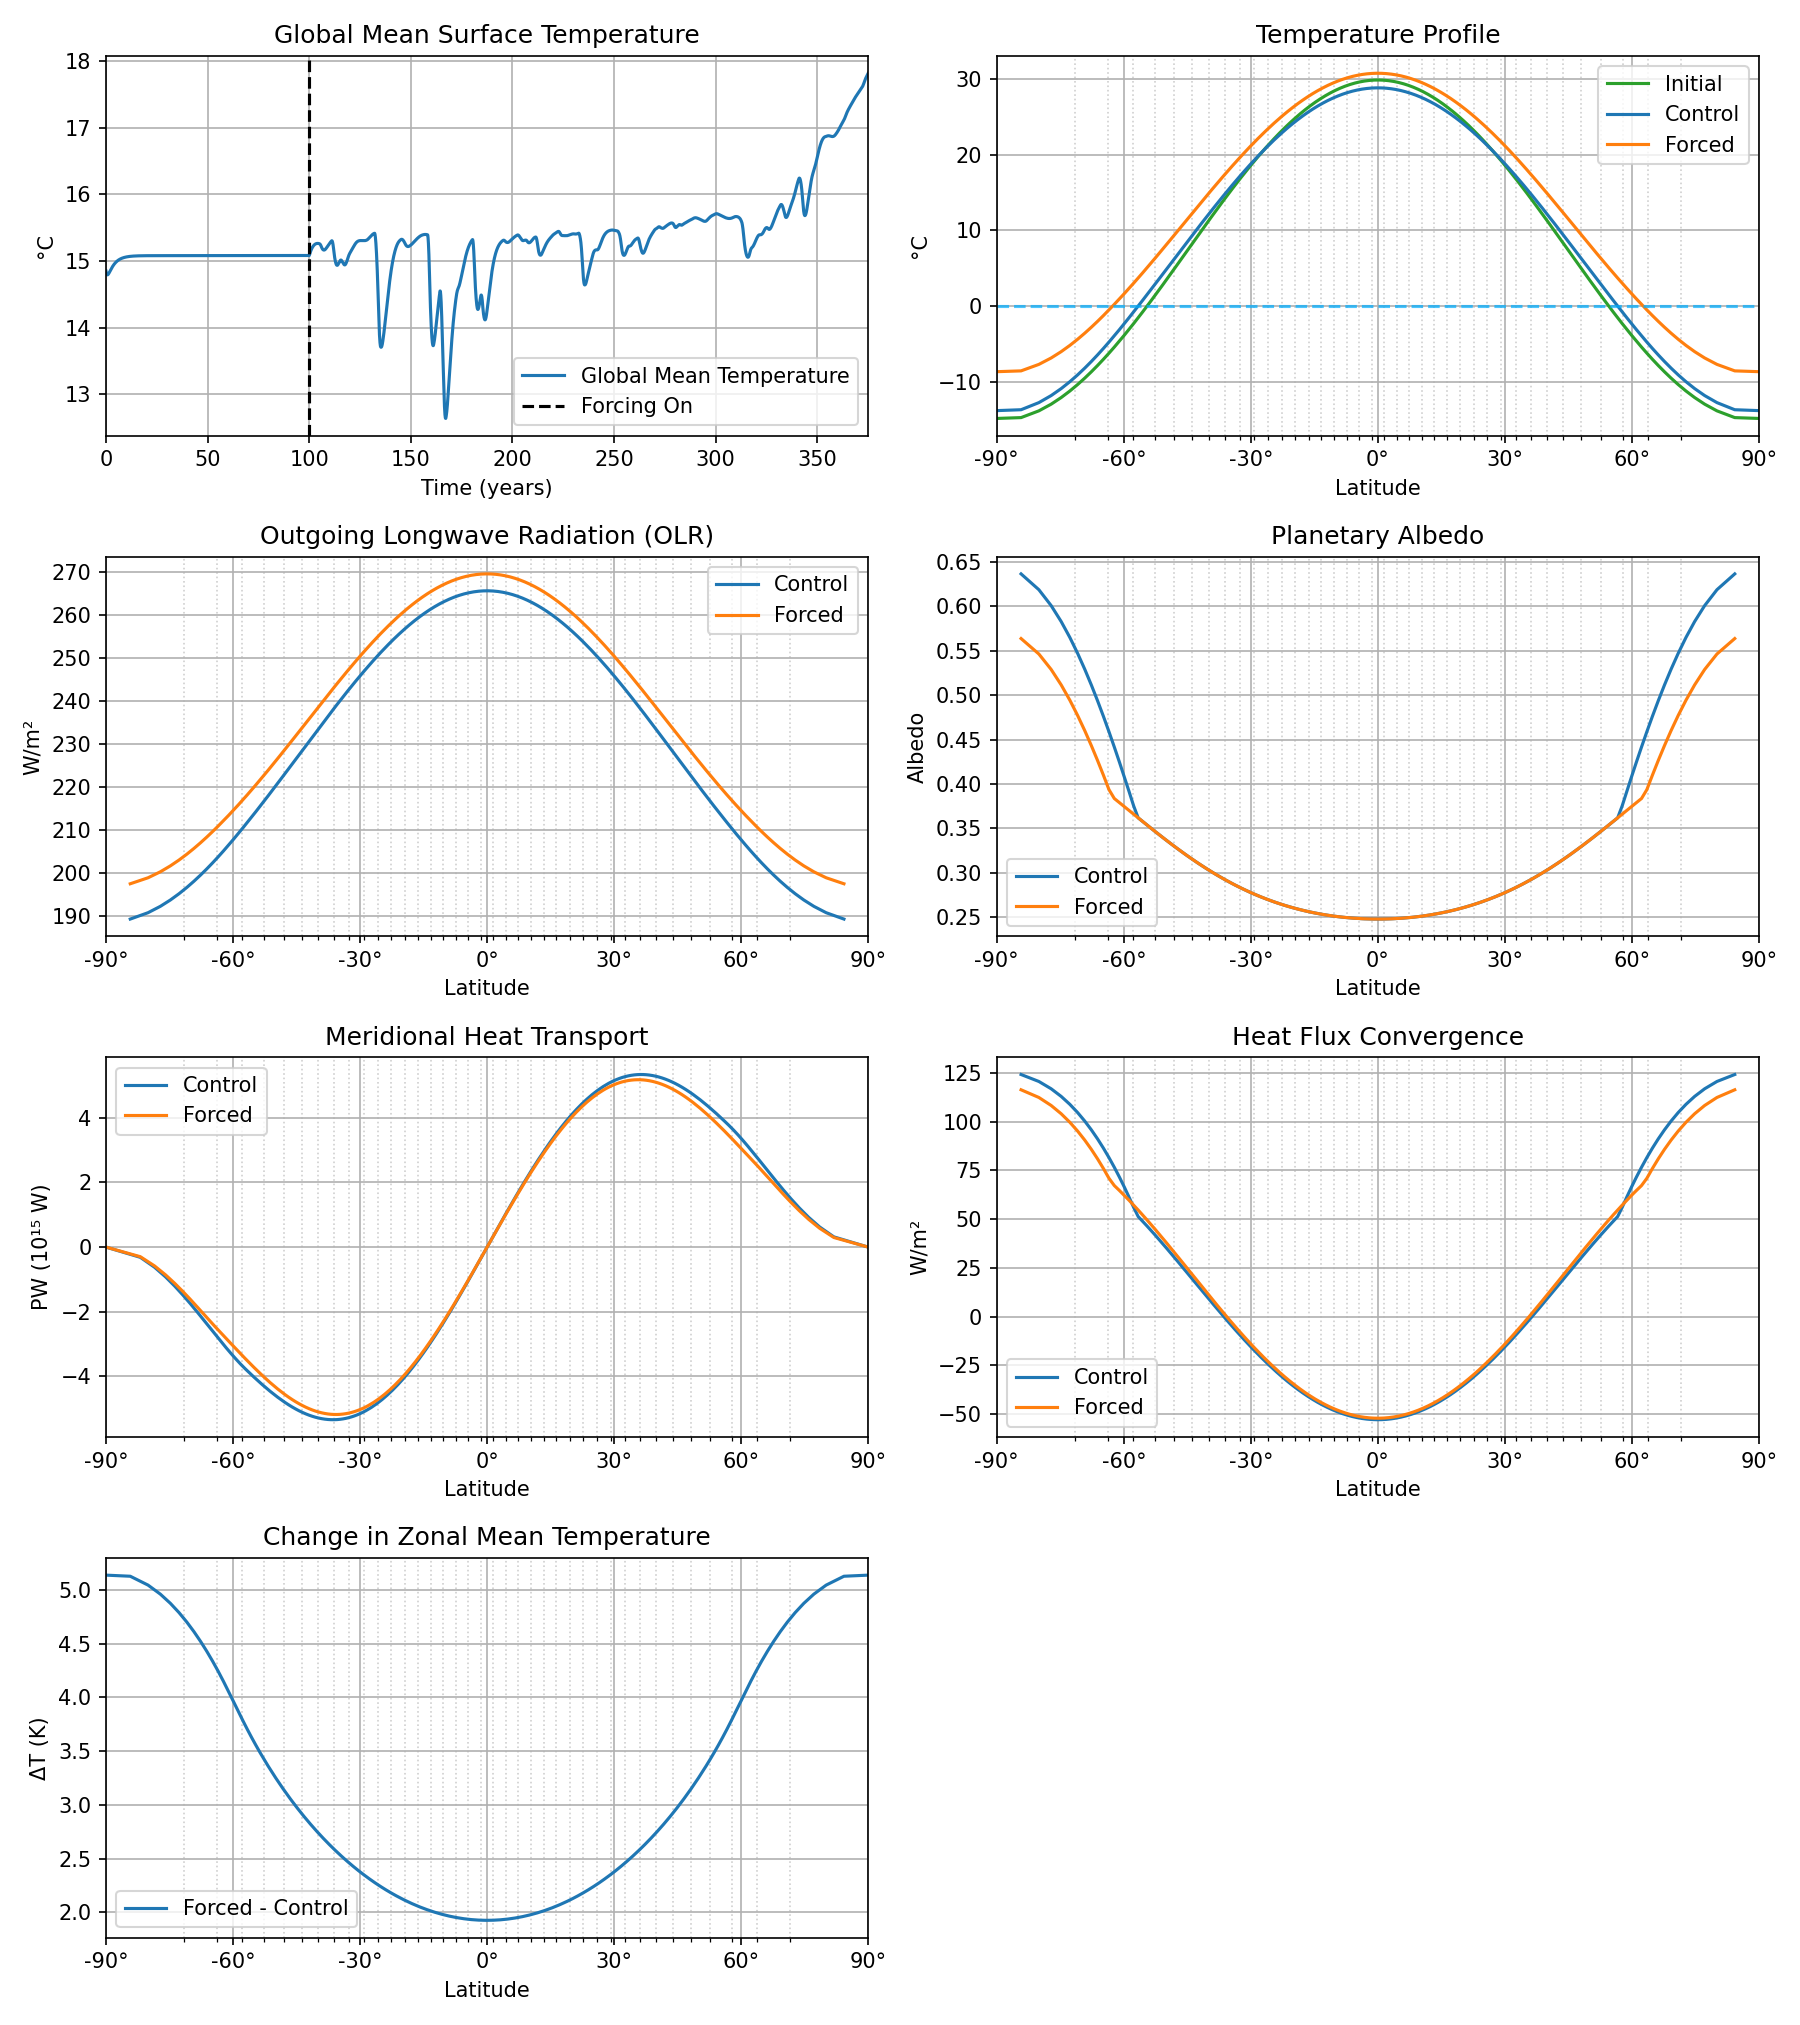
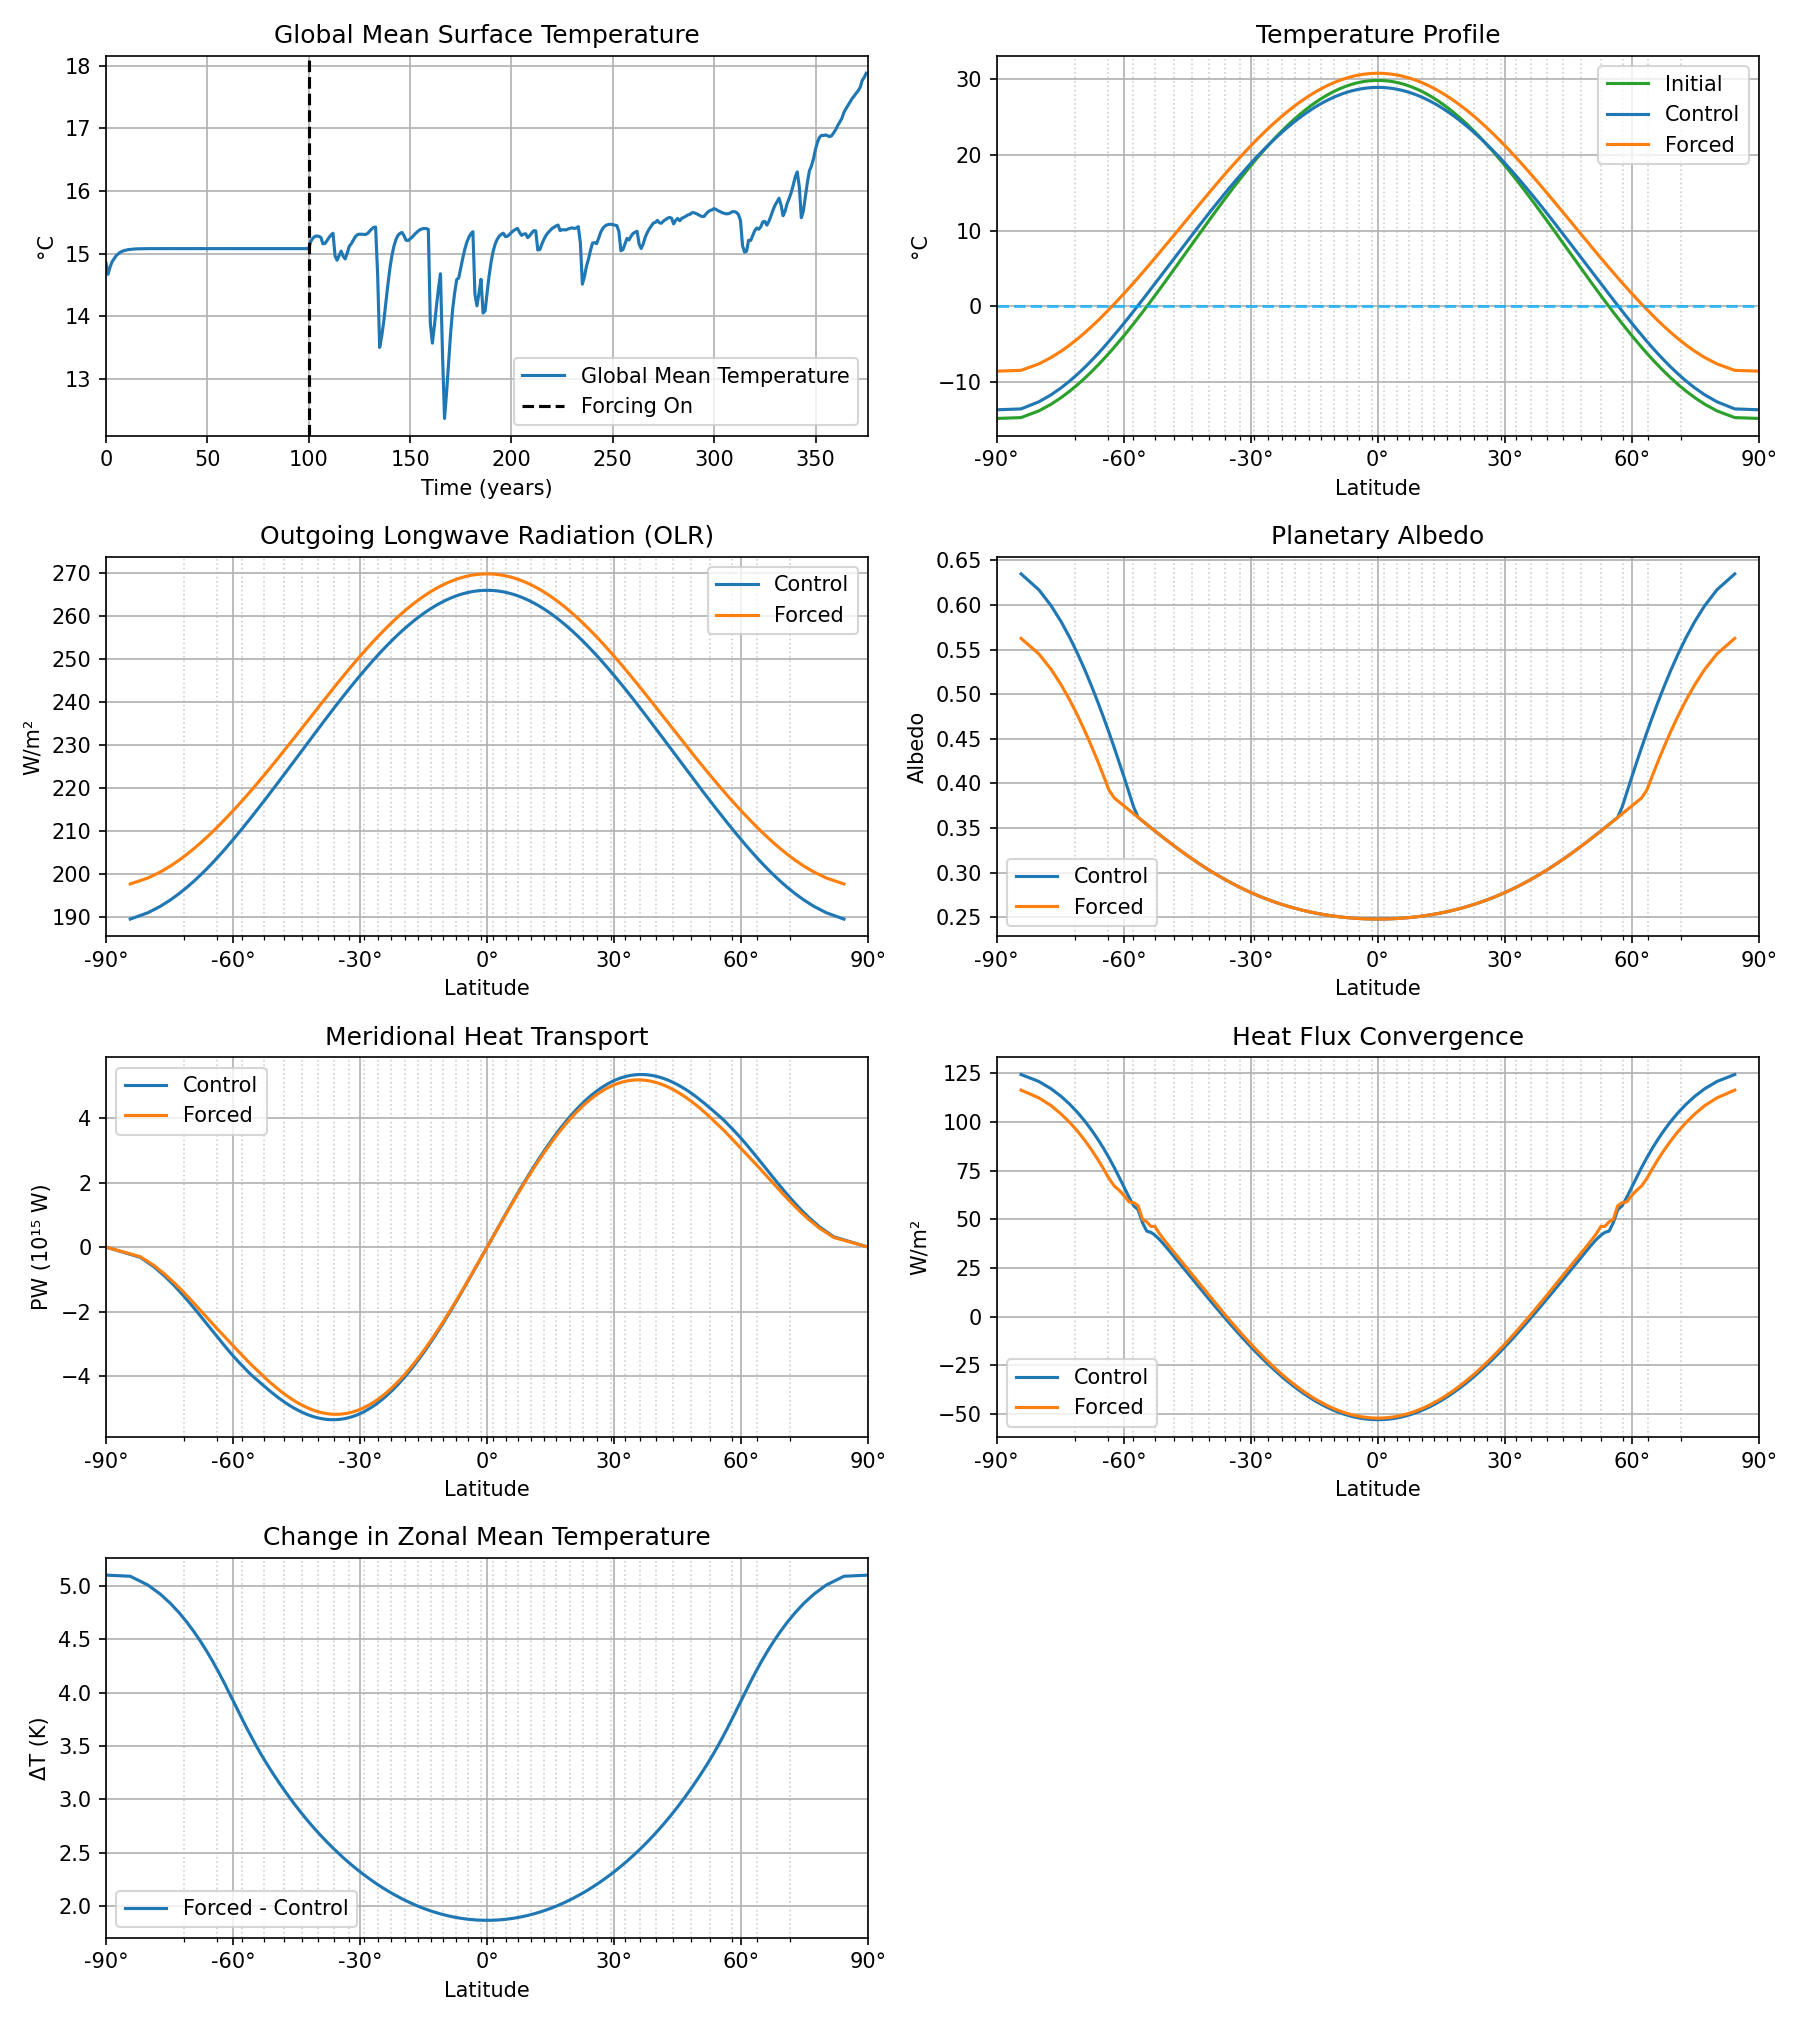
Tilføjede upload knap for forceringstilstand

diff --git a/Programmappen/app.py b/Programmappen/app.py
@@ -1,7 +1,7 @@
 import streamlit as st
 import streamlit.components.v1 as components
 import matplotlib.pyplot as plt
-import re, io, os
+import re, io, os, csv
 from main import main
 from outputs import generate_outputs_data, print_simulation_info
 
@@ -210,6 +210,73 @@ def make_png(fig):
     buf.seek(0)
     return buf
 
+def upload_file_menu():
+    def check_file_format(data):
+        """Check that the uploaded file has the correct format: two columns, numeric data."""
+        try:
+            for row in data:
+                if len(row) != 2:
+                    return False
+                float(row[0])  # Check if first column is numeric
+                float(row[1])  # Check if second column is numeric
+            return True
+        except ValueError:
+            return False
+
+    # Initialize session storage
+    if "forcing_data" not in st.session_state:
+        st.session_state.forcing_data = None
+    if "forcing_filename" not in st.session_state:
+        st.session_state.forcing_filename = None
+
+    # Toggle switch
+    use_custom_forcing = st.toggle("Brug egen forceringsdata", value=False)
+
+    if use_custom_forcing:
+        uploaded_file = st.file_uploader(
+            "Upload din egen CSV-fil med forceringsdata",
+            help = "Filen skal være en CSV med to kolonner: år og forcering i W/m². Første række kan være en header.",
+            type=["csv"], 
+            key="forcing_uploader"
+        )
+
+        if uploaded_file is None:
+            # Display last loaded file if no new one uploaded
+            if st.session_state.forcing_data is not None:
+                st.info(f"Bruger tidligere indlæste fil: {st.session_state.forcing_filename}")
+            else:
+                st.info("Ingen fil indlæst endnu.")
+            return
+        
+        # Simple malware prevention: limit size and enforce CSV reading
+        MAX_SIZE_KB = 100
+        if uploaded_file.size > MAX_SIZE_KB * 1024:
+            st.error(f"Filen er for stor (> {MAX_SIZE_KB} KB).")
+            return
+
+        try:
+            # Read as CSV safely
+            reader = csv.reader(io.StringIO(uploaded_file.getvalue().decode("utf-8")))
+            # Skip header if non-numeric
+            first_row = next(reader)
+            if check_file_format([first_row]): st.session_state.forcing_data = [first_row] + [row for row in reader]
+            else: st.session_state.forcing_data = [row for row in reader]
+            st.session_state.forcing_filename = uploaded_file.name
+            # Validate format
+            if not check_file_format(st.session_state.forcing_data):
+                st.session_state.forcing_data = None
+                st.session_state.forcing_filename = None
+                st.error("Ugyldigt filformat. Sørg for at filen har to kolonner med numeriske data.")
+            else:
+                st.success(f"Fil indlæst: {uploaded_file.name}")
+        except Exception as e:
+            st.error(f"Kunne ikke læse CSV: {e}")
+
+    else:
+        # Reset if toggled off
+        st.session_state.forcing_data = None
+        st.session_state.forcing_filename = None
+
 # Initialize expand state to false
 if "expand" not in st.session_state:
     st.session_state.expand = False
@@ -233,7 +300,7 @@ btns = ButtonGroup("run_away", set_run_away)
 
 
 DEFAULT_PARAMS = dict(k1=0.06, k2=0.01, k3=0.5, D0=0.66, T0=288, SD=250, S0=1365, S1=None, F=4.0)
-DEFAULT_CONFIG = dict(years=1000, ctrl_years=None, dt_years=1.0, nx=200, modes=[])
+DEFAULT_CONFIG = dict(years=1000, ctrl_years=None, dt_years=1.0, nx=200, modes=[], forcing_file='ForcingHistory.csv')
 
 # Initialize with default values
 st.session_state.params = DEFAULT_PARAMS.copy()
@@ -395,6 +462,8 @@ with st.form("input_form"):
                 if value is not None: st.session_state.params[key] = value
 
     with col2:
+        if not "modes" in st.session_state:
+            st.session_state.modes = []
         with st.expander("⚙ Opsætning"):
             st.header("Opsætning")
             # Overwrite config dict with user input when form is submitted
@@ -416,6 +485,11 @@ with st.form("input_form"):
                     st.session_state.config[key] = value
 
     submitted = st.form_submit_button("▶ Kør simulation med opdaterede parametre og opsætning", width="stretch")
+
+if "VariableForcing" in st.session_state.modes:
+    upload_file_menu()
+    if st.session_state.forcing_data is not None:
+        st.session_state.config["forcing_data"] = st.session_state.forcing_data
 
 # Run simulation and show outputs
 st.session_state.axes_funcs, st.session_state.summaries = run(st.session_state.params, st.session_state.config)

diff --git a/Programmappen/modes.py b/Programmappen/modes.py
@@ -70,12 +70,16 @@ class VariableForcing(Mode):
         del model.params["F"] #Remove unused key from output. This also (paradoxically) makes the outputs aware that forcing is on
 
        #Lav forceringshistorik her #open() returnerer nok en fejl hvis stien ikke findes og det er godt
-        with open(os.path.join(os.path.dirname(__file__), 'Datafiler/ForcingHistory.csv')) as f:
-           reader = csv.reader(f)
-           header = next(reader)  # Skip header row if present
-           ForcingHistory = np.array([row for row in reader]) # Reads CSV data
+        if model.config.get("forcing_data") is not None:
+           ForcingHistory = np.array(model.config["forcing_data"])
+        else:
+            print("Loading forcing data from file:", model.config["forcing_file"])
+            with open(os.path.join(os.path.dirname(__file__), 'Datafiler', model.config["forcing_file"])) as f:
+                reader = csv.reader(f)
+                header = next(reader)  # Skip header row if present
+                ForcingHistory = np.array([row for row in reader]) # Reads CSV data
         year = ForcingHistory[:,0].astype(float)
-        forcing = ForcingHistory[:,19].astype(float)
+        forcing = ForcingHistory[:,-1].astype(float)
 
         model.config["years"] = len(year) + model.config["ctrl_years"]
         model.nsteps = int(np.ceil(model.config["years"] / model.config["dt_years"])) # Run for at least config["years"]

diff --git a/Programmappen/main.py b/Programmappen/main.py
@@ -39,7 +39,8 @@ def main(config, params, app_mode=False):
 
 def configure_program():
     # Default config
-    config = {"years": 1000, "ctrl_years": -1, "dt_years": 1, "nx": 200, "modes": [], "output_dir": "Results"}
+    config = {"years": 1000, "ctrl_years": -1, "dt_years": 1, "nx": 200, "modes": [],
+              "output_dir": "Results", "forcing_file": 'ForcingHistory.csv'}
 
     # Default parameters
     params = dict(k1=0.06, k2=0.01, k3=0.5, D0=0.66, T0=288.0, SD=250,
